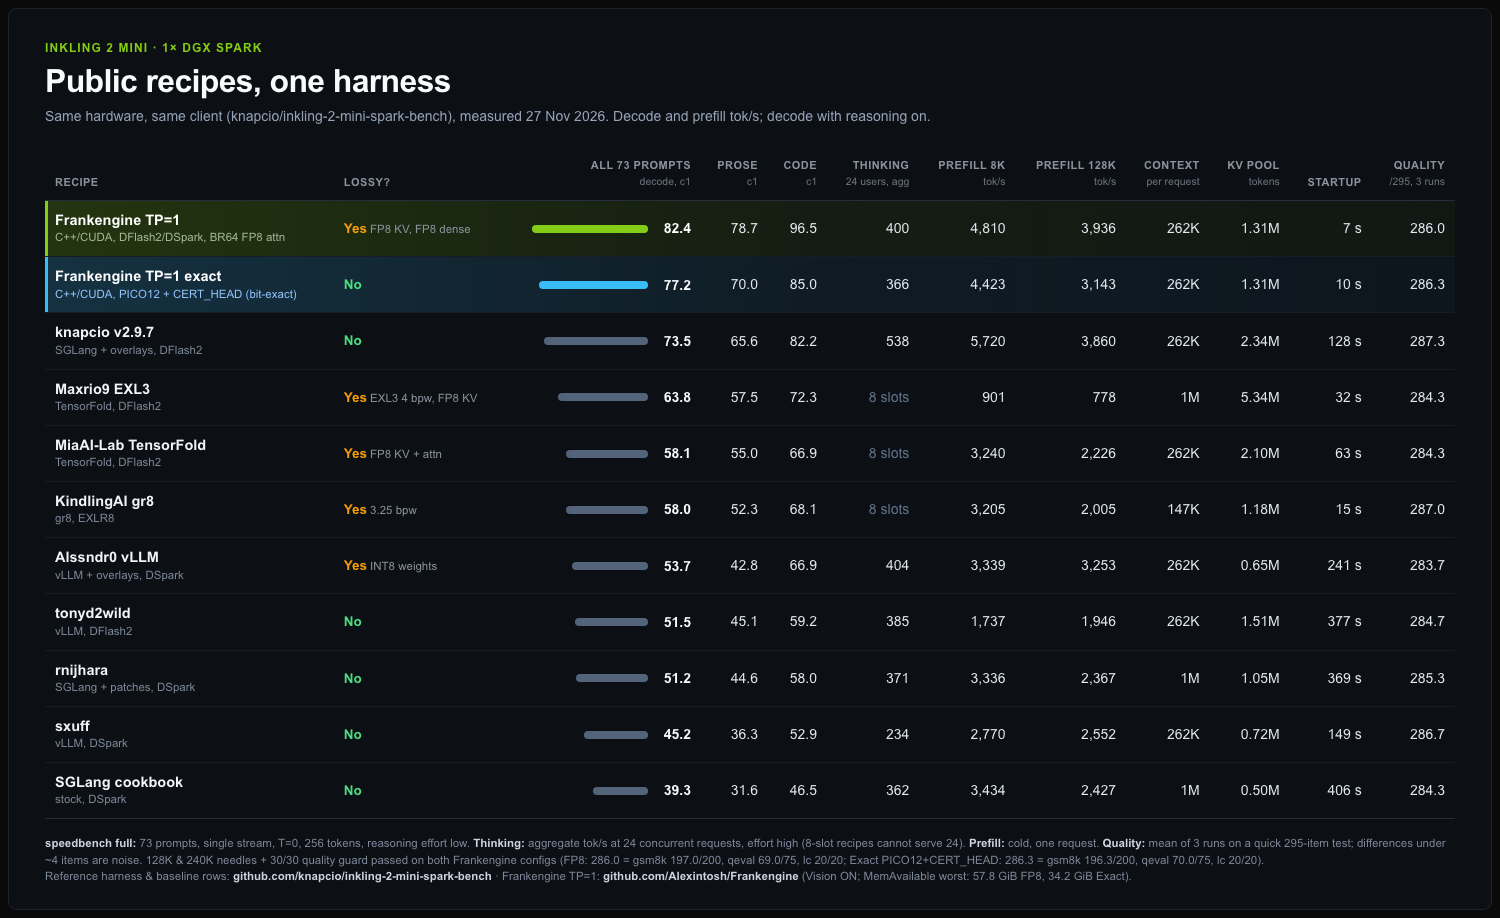
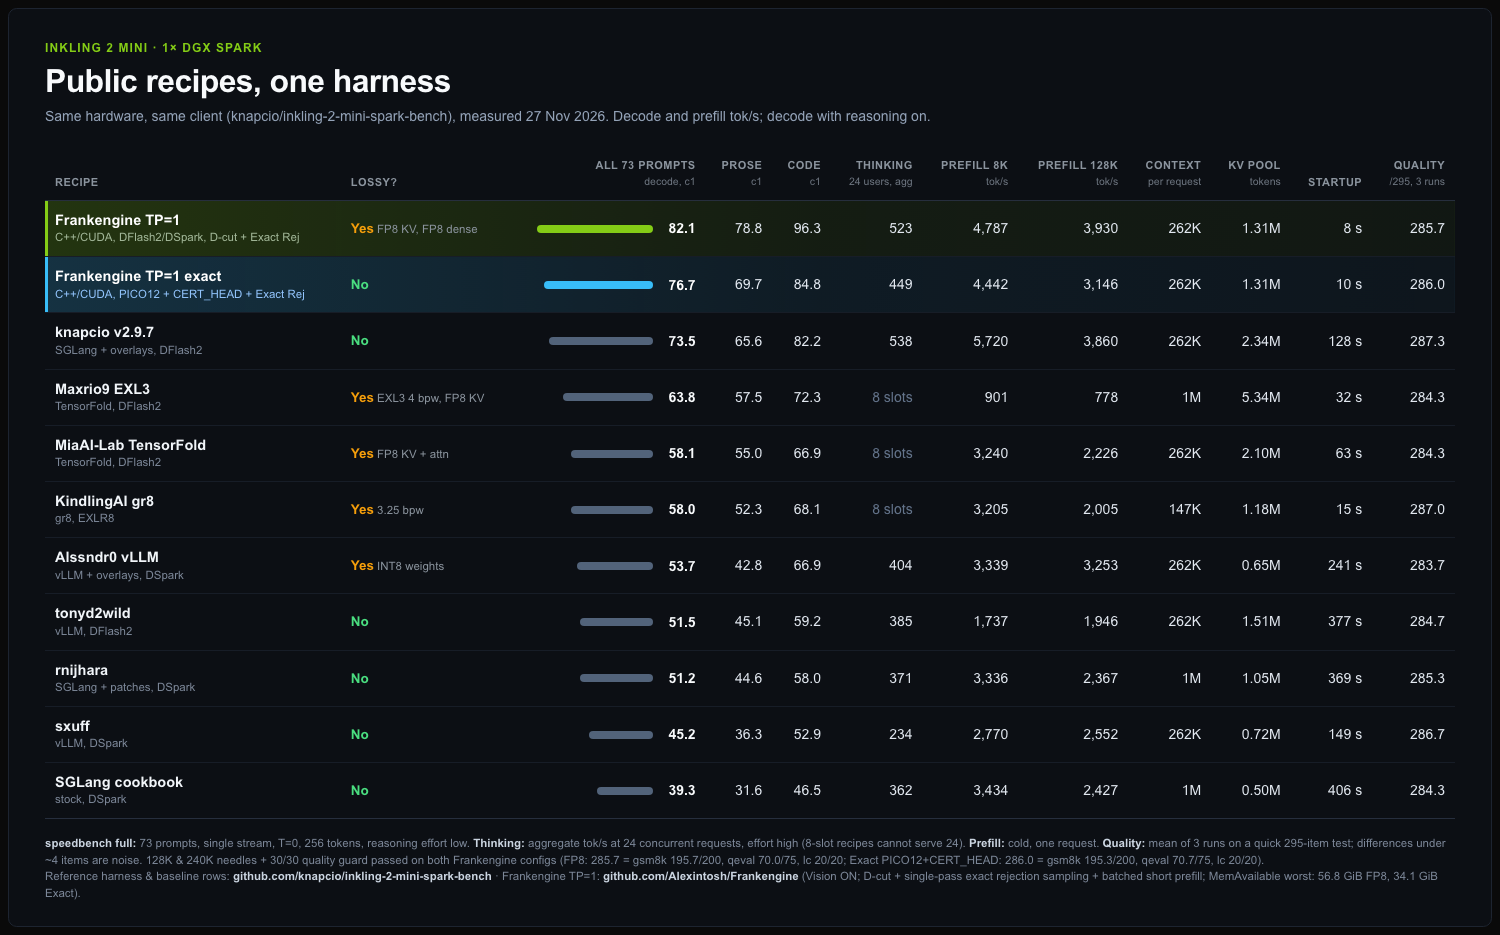
docs: update TP=1 leaderboard PNG, README, and RTX 5090 runbook with AngelSpec D-cut + exact rejection sampling results

diff --git a/README.md b/README.md
@@ -3,12 +3,12 @@
 **High-throughput, strict-lossless C++/CUDA inference engine for `Inkling-2-Mini` (`30B-A3.6B` Looped MoE) on NVIDIA Blackwell GPUs (`GB10` DGX Spark `sm_121a`, `RTX 5090`/`RTX PRO 6000` `sm_120a`, and `B200`/`GB200` `sm_100a`).**
 
 Built on top of upstream [`ingine`](https://github.com/satellitedown/inkling-2-mini-abliterated-ingine) and [`ingine-batch`](https://github.com/satellitedown/ingine-batch), Frankengine combines:
-- **Native Blackwell Kernels & Prefill v3:** `mxf4nvf4`/`mxf8f6f4` Tensor Core prefill MoE, custom `mma.sync.m16n8k32` FP8 dense prefill GEMM (`149.4 TFLOP/s`, fused `OUTER_VEC_32F` epilogue), `BR64_BK64` `ldmatrix.b8.trans` FP8 global prefill attention (`3,936 tok/s` cold 128K prefill on `1× DGX Spark`), fused BF16 `gate_fg_apply`, BF16 MMA `rel_logits`, and fused `NVFP4` LM head (`head_sample_nvfp4` / `head_topk16_nvfp4`).
-- **Bit-Exact 100% Lossless Mode (`PICO12` + `CERT_HEAD`):** Lossless 12-bit BF16-native dense weight packing (`--dense-pico12`, 75.1% of BF16 weight bytes with exact per-row CSR outliers and 7-op `decode4`, 0 bits error) paired with a mathematically certified Cauchy-Schwarz greedy LM head (`--cert-head`, NVFP4 proxy + exact dense verification of all suspect rows, 100% bit-exact greedy parity) — reaching **`77.2 tok/s` `all-73` lossless (`85.0` code, `70.0` prose)** on `1× DGX Spark`.
+- **Native Blackwell Kernels & Prefill v3:** `mxf4nvf4`/`mxf8f6f4` Tensor Core prefill MoE, custom `mma.sync.m16n8k32` FP8 dense GEMM (`149.4 TFLOP/s` prefill + high-occupancy `16×8/16×16/16×32/32×32` small-grid decode tiles, `2.1–2.7×` faster on narrow `BatchDecoder` projections), `BR64_BK64` `ldmatrix.b8.trans` FP8 global prefill attention (`3,930 tok/s` cold 128K prefill on `1× DGX Spark`), fused BF16 `gate_fg_apply`, BF16 MMA `rel_logits`, and fused `NVFP4` LM head (`head_sample_nvfp4` / `head_topk16_nvfp4`).
+- **Bit-Exact 100% Lossless Mode (`PICO12` + `CERT_HEAD`):** Lossless 12-bit BF16-native dense weight packing (`--dense-pico12`, 75.1% of BF16 weight bytes with exact per-row CSR outliers, fused `kb::pico12_gemm` tiled MMA for `BatchDecoder`, and 7-op `decode4`, 0 bits error) paired with a mathematically certified Cauchy-Schwarz greedy LM head (`--cert-head`, NVFP4 proxy + exact dense verification of all suspect rows, 100% bit-exact greedy parity) — reaching **`76.7 tok/s` `all-73` lossless (`84.8` code, `69.7` prose)** and **`449.3 tok/s` `Thinking c24` lossless** on `1× DGX Spark`.
 - **Dual-Rail 200 GbE RoCEv2 UMA Backend (`tp_comm/`):** 48-CTA FP32/BF16 AllReduce, CUDA-Graph-safe `K=4` pipelined bulk RDMA (`>=8 MiB`), `bf16-moe` wire (`Wo` stays FP32 for conv1d precision), and `6.3×` 32-CTA sampled gather.
 - **50/50 `TP=2` Sharded Solo `DFlash 2` + Hybrid Speculation:** Megatron-sharded 5-layer FP8/NVFP4 `DFlash 2` backbone (`-22.9%` draft latency, broadcast-free in-graph sharded NVFP4 head) paired with global `DSpark` (`--draft-type hybrid --dflash2-max-ctx 6144`).
-- **`BatchDFlash2` (`GAMMA=7`) & `c=32` CUDA Graphs:** 5-layer batched block-diffusion drafter (`MXFP8` + `FP8` KV rings = `1.545 GB` for 32 slots, WMMA GQA, auto-selected when `--dflash2-dir` and `--batch-spec >= 5`), `32 × 32K` continuous batching, and automatic `256K` solo fallback.
-- **GPU `clone_slot` Forking + Zero-VRAM Persistent Prefix Cache:** Automatic intra-wave shared-prefix slot cloning plus an LRU Prefix Anchor pool (detecting `<|end_message|>` / `<|im_end|>` boundaries) that cuts repeated system-prompt TTFT by up to **`19.9×`**.
+- **`BatchDFlash2` (`GAMMA=7`), AngelSpec `D-cut` & Single-Pass Exact Rejection Sampling:** 5-layer batched block-diffusion drafter (`MXFP8` + `FP8` KV rings = `1.545 GB` for 32 slots) with **zero-logit-buffer single-pass exact Leviathan rejection sampling** fused directly into the `BF16`/`PICO12`/`NVFP4` heads (`avg_accept_len` `2.86 → 3.74` at `T=0.8`, 0 register spills, 100% exact target distribution), global marginal-gain **`D-cut`** prefix allocation + 16-row CUDA graph bucketing, and **batched short-prompt prefill** (`Thinking c24` **`400 → 522.7 tok/s` `+30.8%`**, `TTFT 0.69 s`).
+- **GPU `clone_slot` Forking + Zero-VRAM Persistent Prefix Cache:** Automatic intra-wave shared-prefix slot cloning (`>=32` net tokens) plus an LRU Prefix Anchor pool (detecting `<|end_message|>` / `<|im_end|>` boundaries) that cuts repeated system-prompt TTFT by up to **`19.9×`**.
 - **Vision ON (`TP=1`) + Live Observability & Parallel Agent Fan-Out:** Built-in ViT multimodal support enabled by default on `TP=1`, lock-free `GET /v1/telemetry` (JSON) & `GET /metrics` (Prometheus) endpoints + bundled [`.omp/extensions/frankengine-parallel.ts`](.omp/extensions/frankengine-parallel.ts) for single-chat multi-lane coding fan-out.
 
 <p align="center">
@@ -27,11 +27,11 @@ Measured on `1× NVIDIA DGX Spark (GB10)` with the exact public 7-step `cmpbench
 
 | Recipe (`1× DGX Spark`) | Lossy? | ALL 73 (`c1`) | Prose (`c1`) | Code (`c1`) | Thinking (`c24`) | Prefill `8K` | Prefill `128K` | Decode `@32K / 128K` | Startup | Quality (`/295`) |
 |---|---|---:|---:|---:|---:|---:|---:|---:|---:|---:|
-| **Frankengine TP=1 (FP8, Vision ON)** | Yes (`FP8 KV/dense`) | **`82.4 tok/s`** *(geo `86.2`)* | **`78.7`** | **`96.5`** | `400` | `4,810` | **`3,936`** | **`90.9 / 58.5`** | **`7 s`** | `286.0` |
-| **Frankengine TP=1 exact (`PICO12 + CERT_HEAD`, Vision ON)** | **No (bit-exact)** | **`77.2 tok/s`** *(geo `77.3`)* | **`70.0`** | **`85.0`** | `366` | `4,423` | `3,143` | `72.7 / 43.1` | **`10 s`** | **`286.3`** |
+| **Frankengine TP=1 (FP8, Vision ON)** | Yes (`FP8 KV/dense`) | **`82.1 tok/s`** *(geo `86.0`)* | **`78.8`** | **`96.3`** | **`523`** *(c8 `270`)* | `4,787` | **`3,930`** | **`89.1 / 60.6`** | **`8 s`** | `285.7` |
+| **Frankengine TP=1 exact (`PICO12 + CERT_HEAD`, Vision ON)** | **No (bit-exact)** | **`76.7 tok/s`** *(geo `77.1`)* | **`69.7`** | **`84.8`** | **`449`** *(c8 `219`)* | `4,442` | `3,146` | `70.2 / 42.8` | **`10 s`** | **`286.0`** |
 | `knapcio v2.9.7` (SGLang + overlays, Vision OFF) | No | `73.5 tok/s` | `65.6` | `82.2` | `538` | `5,720` | `3,860` | — | `128 s` | `287.3` |
 
-Both Frankengine TP=1 configs pass `128K` and `240K` passkey needles (`PASS`), `30/30` quality guard (`PASS`), and `0` failed requests across all 7 steps (`TTFT 49.3 / 53.0 ms`, `worst MemAvailable 57.8 / 34.2 GiB`).
+Both Frankengine TP=1 configs pass `128K` and `240K` passkey needles (`PASS`), `30/30` quality guard (`PASS`), and `0` failed requests across all 7 steps (`TTFT 49.7 / 53.3 ms` solo, `0.69 / 0.76 s` on `Thinking c24`, `worst MemAvailable 56.8 / 34.1 GiB`). On steady-state 512-token full-24 bursts, FP8 reaches **`552.3 tok/s`** (`26.9 tok/s` per stream).
 
 ---
 

diff --git a/docs/RTX5090_AGENT_RUNBOOK.md b/docs/RTX5090_AGENT_RUNBOOK.md
@@ -131,7 +131,10 @@ Frankengine supports two single-GPU Blackwell production presets (both with **Vi
   - **CERT_HEAD** uses an NVFP4 proxy (`~259 MB`) plus outward-rounded Cauchy-Schwarz row error bounds to discard provably suboptimal rows and verify all remaining candidates with exact PICO12/BF16 arithmetic — guaranteeing 100% bit-exact greedy (`T=0`) token parity while saving `~2.3–2.5 ms/step` on GB10.
 - **Speculative Decoding:** `--spec --spec-widths fine2 --spec-threshold 0.65 --draft-type hybrid --dflash2-adaptive --dflash2-threshold 0.50 --dflash2-max-ctx 6144`
   - Uses eager-captured `FP8` CUDA-graph `DFlash 2` on short/medium prompts (`≤6,144` tokens) and global `DSpark` on longer contexts and sampled (`temperature > 0`) requests.
-- **Batched Speculation & Prefix Caching:** when `BATCH_SPEC=7` (`BATCH_SPEC_THRESHOLD=0.30`, `BATCH_SPEC_MIN=2`) is active, `ingine-serve` auto-selects `BatchDFlash2` (`hybrid`) + `c=32` CUDA Graphs + automatic GPU `clone_slot` + zero-VRAM Persistent Prefix Anchors (`<|end_message|>` / `<|im_end|>` boundary detection) and exposes live `GET /v1/telemetry` & `GET /metrics`.
+- **Batched Speculation, Exact Rejection Sampling & Prefix Caching:** when `BATCH_SPEC=7` (`BATCH_SPEC_THRESHOLD=0.30`, `BATCH_SPEC_MIN=2`) is active, `ingine-serve` auto-selects `BatchDFlash2` (`hybrid`) with:
+  - **Zero-logit-buffer single-pass exact Leviathan rejection sampling** (`INGINE_BATCH_REJECTION_SAMPLE=1`, default ON for TP=1) fused into the `BF16`, `PICO12`, and `NVFP4` heads (`avg_accept_len` `2.86 → 3.74` at `T=0.8`, 100% exact target distribution).
+  - **AngelSpec-inspired `D-cut` adaptive verification + 16-row CUDA Graph bucketing** (`INGINE_BATCH_DCUT=1`, default auto `theta=0.15`), native small-grid FP8 dense GEMMs (`INGINE_BATCH_FP8_DENSE=1`), fused PICO12 tiled MMA GEMM (`INGINE_BATCH_PICO12_GEMM=1`), and fused BF16 gates (`INGINE_BATCH_GATE_FUSE=1`).
+  - **Batched short-prompt prefill** (`INGINE_BATCH_SHORT_PREFILL=1`, default ON) + automatic GPU `clone_slot` (`>=32` net shared tokens) + zero-VRAM Persistent Prefix Anchors (`<|end_message|>` / `<|im_end|>` boundary detection) and live `GET /v1/telemetry` & `GET /metrics`.
 - **Context & Prefill Chunk:** `PREFILL_CHUNK=8192` is now the default (`+30%..+41%` prefill throughput). Use `MAX_CTX=262144` (256K) if `≥27.5 GiB` VRAM is free; otherwise set `MAX_CTX=131072 PARK_MB=512`. On 32 GB RTX 5090 in 100% lossless BF16-KV mode, use `MAX_CTX=131072 MAX_BATCH=1 BATCH_SPEC=0 PARK_MB=0` (or `VISION=0`) to leave comfortable KV headroom.
 
 Start the server in the background and log to `/tmp/frankengine_serve.log`:
@@ -316,14 +319,16 @@ Package and share back **all three files** (e.g., `tar -czf bench_results_rtx509
 
 | Workload | `1× DGX Spark` (`TP=1` FP8) | `1× DGX Spark` (`TP=1` Lossless `PICO12+CERT_HEAD`) | `2× DGX Spark` (`TP=2` Promoted) | Expected `1× RTX 5090` (`1,792 GB/s`) |
 |---|---:|---:|---:|---:|
-| **`speedbench full` ALL 73 (`c=1`, reasoning on)** | **`82.4 tok/s`** *(prose `78.7`, code `96.5`)* | **`77.2 tok/s`** *(prose `70.0`, code `85.0`)* | — | `~450–620 tok/s` |
+| **`speedbench full` ALL 73 (`c=1`, reasoning on)** | **`82.1 tok/s`** *(prose `78.8`, code `96.3`)* | **`76.7 tok/s`** *(prose `69.7`, code `84.8`)* | — | `~450–620 tok/s` |
+| **Thinking Workload (`c=24`, `48×4096`, `T=0.8`)** | **`522.7 tok/s`** *(TTFT `0.69 s`, `26.6/req`)* | **`449.3 tok/s`** *(TTFT `0.76 s`, `22.9/req`)* | — | `~3,000–3,800 tok/s` |
+| **Thinking Workload (`c=8`, `16×4096`, `T=0.8`)** | **`269.9 tok/s`** *(TTFT `0.36 s`, `40.1/req`)* | **`218.6 tok/s`** *(TTFT `0.55 s`, `33.1/req`)* | — | `~1,500–2,000 tok/s` |
 | **Short Code Greedy (`36t`, `DFlash 2`)** | `155.4 tok/s` | — | **`257.5 tok/s`** warm (`247.9` cold) | `~850–1,100 tok/s` |
 | **File-Edit / Refactor (`1.5K`, `320t`)** | — | — | **`263.9 tok/s`** | `~900–1,150 tok/s` |
 | **8-Category Mean Decode (`256t`, `T=0`)** | — | — | **`159.6 tok/s`** | `~600–750 tok/s` |
-| **Cold Prefill (`8K / 32K / 128K`, `PREFILL_CHUNK=8192`)** | **`4,810 / 4,811 / 3,936 tok/s`** | **`4,423 / 4,294 / 3,143 tok/s`** | `3,761 (4K) / 3,579 (32K)` | `~22,000–32,000 tok/s` |
-| **Long-Context Decode (`32K / 128K` warm)** | **`90.9 / 58.5 tok/s`** | **`72.7 / 43.1 tok/s`** | `143.6–199.9 tok/s (32K)` | `~550–720 tok/s (32K)` |
-| **Startup Time (`Vision ON`)** | **`7 s`** | **`10 s`** | `~12 s` | `~5–8 s` |
-| **Quality (`inkqc`, 3-seed `/295`)** | `286.0 / 295` | **`286.3 / 295`** | — | `~286 / 295` |
+| **Cold Prefill (`8K / 32K / 128K`, `PREFILL_CHUNK=8192`)** | **`4,787 / 4,811 / 3,930 tok/s`** | **`4,442 / 4,295 / 3,146 tok/s`** | `3,761 (4K) / 3,579 (32K)` | `~22,000–32,000 tok/s` |
+| **Long-Context Decode (`32K / 128K` warm)** | **`89.1 / 60.6 tok/s`** | **`70.2 / 42.8 tok/s`** | `143.6–199.9 tok/s (32K)` | `~550–720 tok/s (32K)` |
+| **Startup Time (`Vision ON`)** | **`8 s`** | **`10 s`** | `~12 s` | `~5–8 s` |
+| **Quality (`inkqc`, 3-seed `/295`)** | `285.7 / 295` | **`286.0 / 295`** | — | `~286 / 295` |
 | **Peak Memory @ `256K` Context (`c=1`)** | `26.1 GiB` (`1` GPU) | `~38 GiB` (`BF16 KV`, `256K`)* | `31.3 GiB` (`32×32K` + `256K` solo) | `~26–27 GiB` (FP8 `c=1`) |
 | **Batched `BatchDFlash2` `c=32` (`spec=7`)** | **`493.1 tok/s`** (`1K` ctx) | — | **`585.1` wall / `846.4` sum** (`live SSE`) | `~2,800–3,600 tok/s` |
 | **Batched Spec `c=64` (`ctx=640`, `spec=4`)** | `600.8 tok/s` | — | `820.5 tok/s` (`1,132` SS) | `~4,100–4,500 tok/s` |
